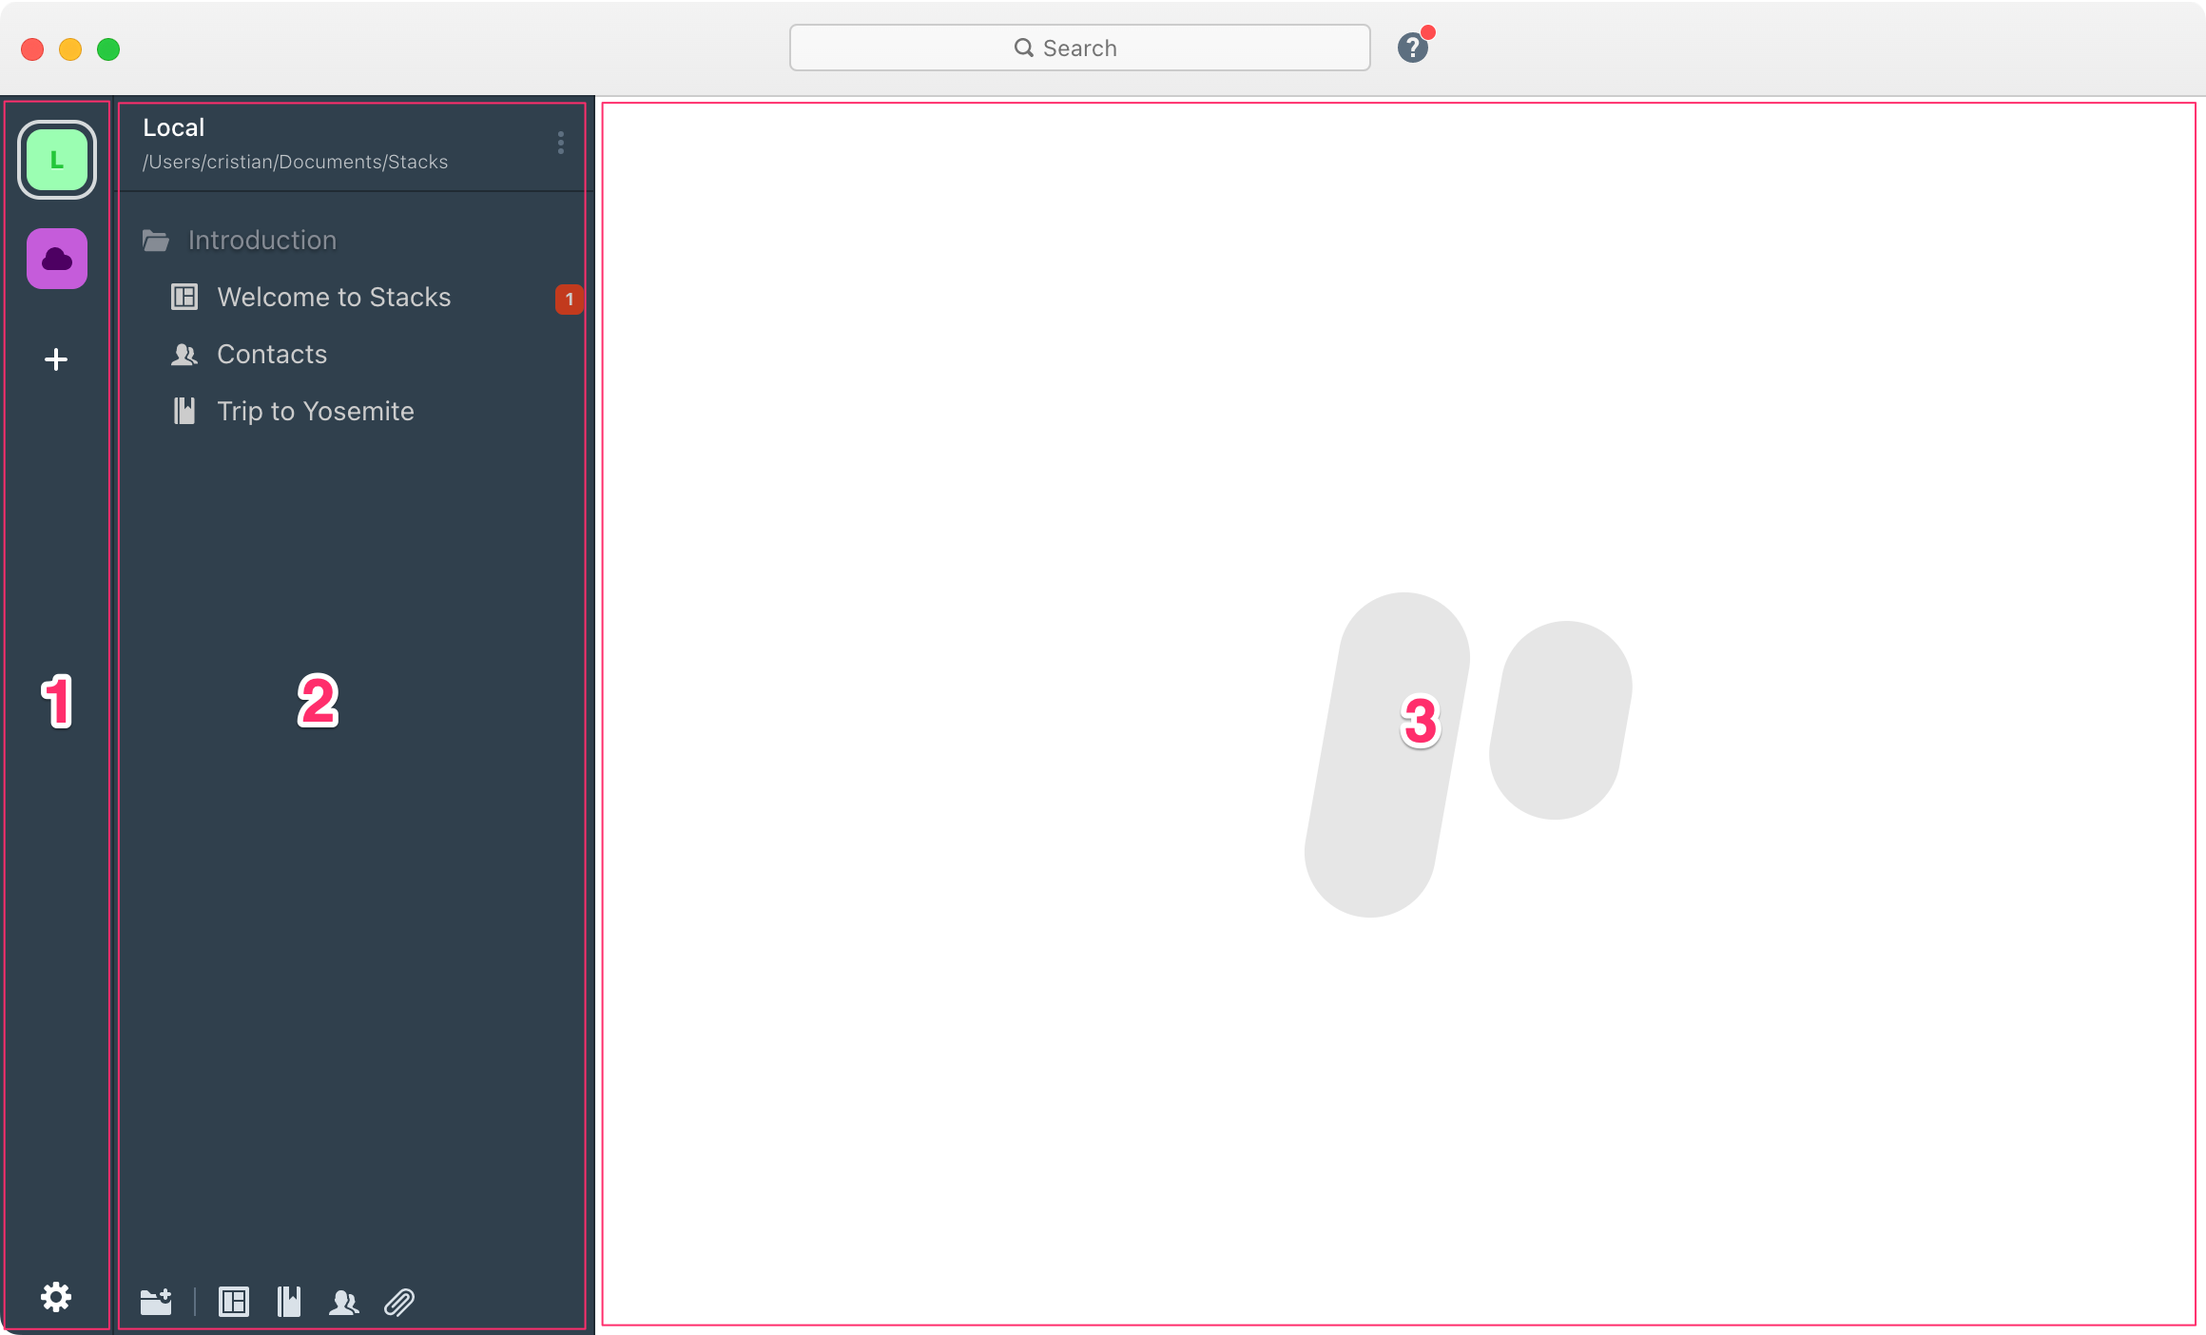
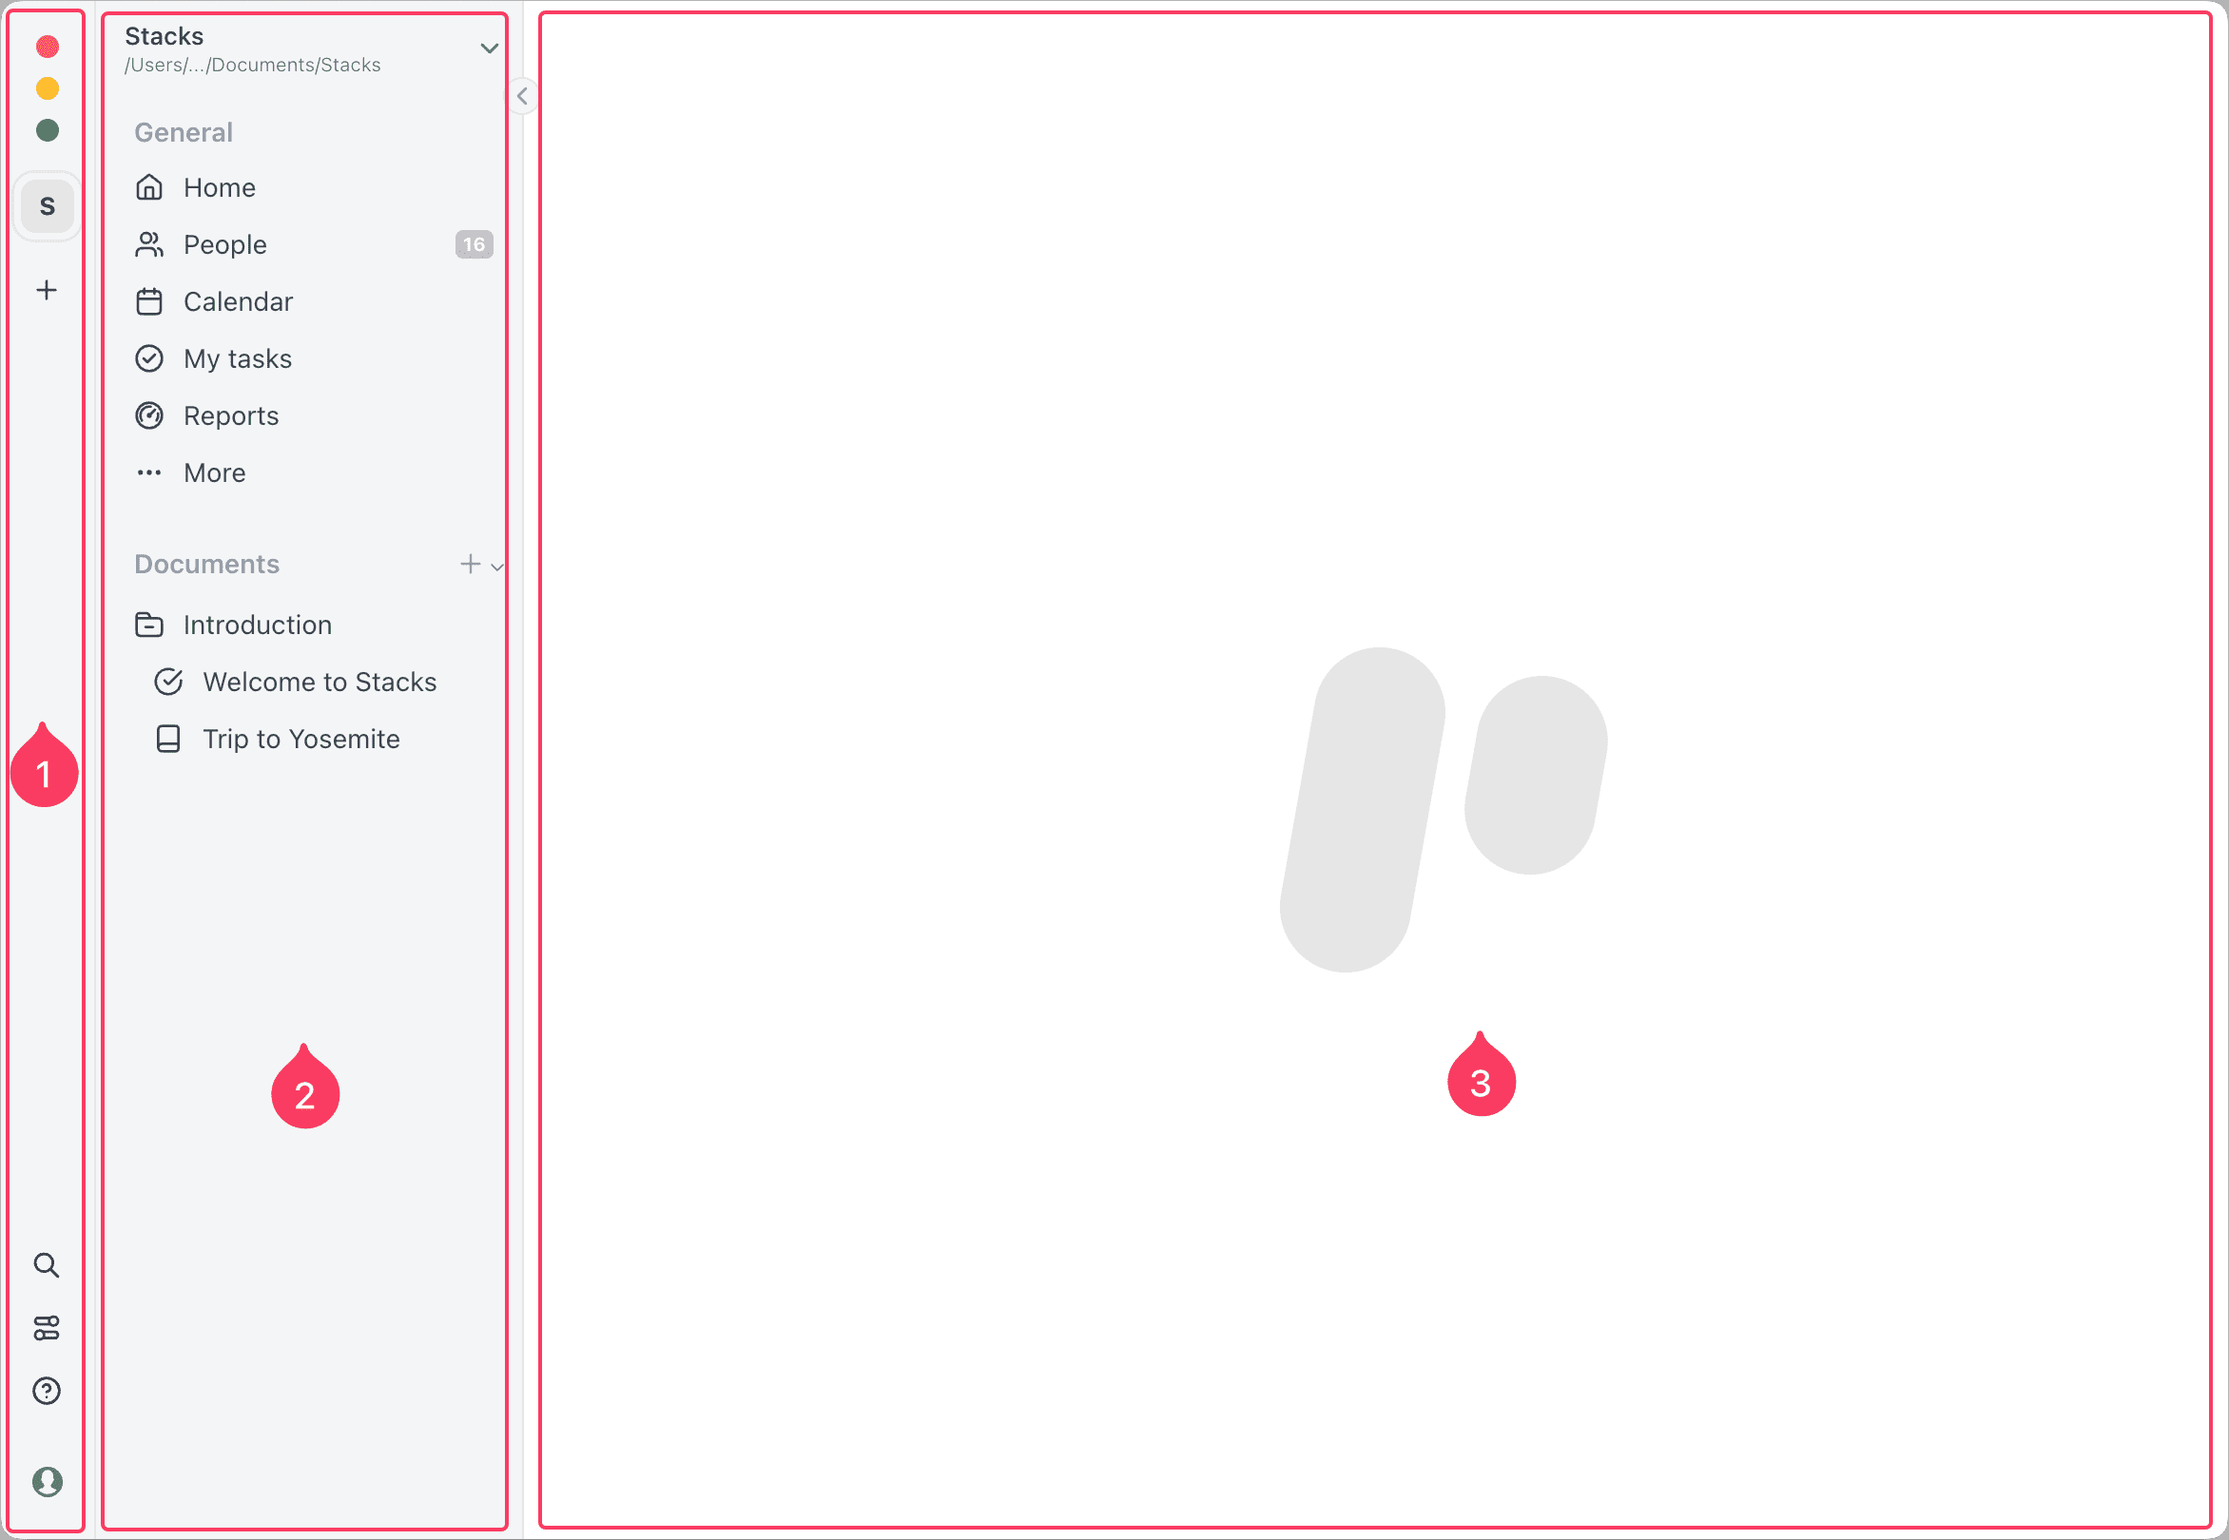
updates

Changed region(s): [[0.0, 0.0, 1.0, 1.0], [0.5586, 0.3981, 0.7448, 0.735]]

diff --git a/docs/.vuepress/config.js b/docs/.vuepress/config.js
@@ -14,17 +14,20 @@ module.exports = {
       {
         title: 'General',
         collapsable: false,
+        path: '/general/',
         children: [
           '/general/layout.md',
           '/general/sidebar.md',
           '/general/documents.md',
+          '/general/home.md',
+          '/general/calendar.md',
           '/general/changing-the-language.md',
           '/general/add-language.md',
           '/general/create-new-document.md',
           '/general/rename-document.md',
           '/general/change-theme.md',
           '/general/open-preferences.md',
-          '/general/app-hotkeys.md',
+          '/general/keyboard-shortcuts.md',
         ],
       },
       {
@@ -47,7 +50,6 @@ module.exports = {
           '/projects/board-view.md',
           '/projects/list-view.md',
           '/projects/table-view.md',
-          '/projects/calendar-view.md',
           '/projects/stack.md',
           '/projects/task.md',
           '/projects/task-details.md',
@@ -58,6 +60,7 @@ module.exports = {
       },
       {
         title: 'People',
+        path: '/people/',
         collapsable: false,
         children: [],
       },

diff --git a/docs/workspaces/add-new-workspace.md b/docs/workspaces/add-new-workspace.md
@@ -1,13 +1,20 @@
 # Adding a new workspace
 
-1. Click on the plus sign [<svg xmlns="http://www.w3.org/2000/svg" viewBox="0 0 20 20" width="12" height="12"><path fill-rule="evenodd" clip-rule="evenodd" d="M16,9h-5V4c0-0.55-0.45-1-1-1S9,3.45,9,4v5H4c-0.55,0-1,0.45-1,1 c0,0.55,0.45,1,1,1h5v5c0,0.55,0.45,1,1,1s1-0.45,1-1v-5h5c0.55,0,1-0.45,1-1C17,9.45,16.55,9,16,9z"/></svg>] on the left and choose between adding a `Local workspace` or `Online workspace`.  Read more [here](./what-is-a-workspace.md) about the difference between the 2 types of workspaces.
+To add a new workspace follow these steps:
 
-<img :src="$withBase('/assets/img/workspaces/adding_a_workspace.png')">
+1. Click on the plus sign button on the left sidebar 
+2. Choose between adding a `Local workspace` or `Remote workspace`.  
 
-2. After you have clicked on `Add a local workspace` you need to insert the workspace's name [`1`] and location [`2`]. You can also select the location of a previously created workspace which will be automatically loaded; alternatively, you can start from scratch and create a new workspace in a new empty folder.
+Read more [here](./what-is-a-workspace.md) about the difference between the 2 types of workspaces.
 
-<img :src="$withBase('/assets/img/workspaces/adding_a_workspace_local_folder.png')">
+<img :src="$withBase('/assets/img/workspaces/adding-a-workspace.png')">
 
-3. When a new empty folder is selected, the workspace will be populate with a demo content called **Introduction**. These are just examples to show what you can do with Stacks, you can either edit them or deleted and create your own documents.
+1. Insert the workspace's name
+2. Select the folder/path of the worksace. You can also select the location of a previously created workspace which will be automatically loaded; alternatively, you can start from scratch and create a new workspace in a new empty folder.
+3. Click the `Add workspace` button to add or load a previously created workspace
 
-<img :src="$withBase('/assets/img/workspaces/adding_a_workspace_local_folder_new_folder.png')">
+<img :src="$withBase('/assets/img/workspaces/add-workspace.png')">
+
+::: tip
+When a new empty folder is selected, the workspace will be populate with a demo content called **Introduction**. These are just examples to show what you can do with Stacks, you can either edit them or deleted and create your own documents.
+:::

diff --git a/docs/general/sidebar.md b/docs/general/sidebar.md
@@ -1,14 +1,28 @@
 # Sidebar
 
-The **Sidebar** is the place where you organize all your [Documents](./documents.md) into folders. Everything can be easily moved around by dragging-and-dropping to best fit your needs.
+The **Sidebar** is the place where you organize all your [Documents](./documents.md) into folders and jump to several key section of the app like the [Home](./home.md), [People](../people/), Reports and more. Everything can be easily moved around by dragging-and-dropping to best fit your needs.
 
 <img :src="$withBase('/assets/img/general/sidebar.png')" />
 
-## Enabling counters
 
-Some of the documents in the **Sidebar** may show some useful counters like the overdue tasks in a project. To enable the counters follow these steps:
+## Configuring pinned items
 
-1. Open the [**Preferences**](../general/open-preferences.md)
-2. Click on the **Interface** tab under the **Look & Feel** section
-3. Locate the **Sidebar** section
-4. Switch on the **Show document counter** option
+The top section of the sidebar has various useful app section which can be easily pinned. To manage pinned items follow these steps:
+
+1. Click on the `More...` menu in the sidebar
+2. Click on the `Manage pinned items...` menu item
+
+<img :src="$withBase('/assets/img/general/managing-pinned-items.png')" />
+
+After the preferences window is open:
+
+1. Click on the `pin` button to remove item from the pinned items
+2. Click on the `pin` button to add item to the pinned items
+
+<img :src="$withBase('/assets/img/general/toggle-pinned-items.png')" />
+
+## Closing the sidebar
+
+The sidebar can be closed either by using the keyboard shortcut <kbd>Ctrl+B</kbd> on Windows or Linux and <kbd>Cmd+B</kbd> on macOS. Or by clicking the `toggle` sidebar button.
+
+<img :src="$withBase('/assets/img/general/toggle-sidebar.png')" />

diff --git a/docs/projects/board-view.md b/docs/projects/board-view.md
@@ -2,7 +2,28 @@
 
 The board view uses a kanban board. A kanban board is an agile project management tool designed to help visualize work, limit work-in-progress, and maximize efficiency (or flow). It can help both agile and DevOps teams establish order in their daily work. Kanban boards use cards ([Tasks](./task.md)), columns ([Stacks](./stack.md)).
 
-<video autoplay="autoplay" class="img-fluid mx-auto radius-big shadow show-on-dark" loop="loop" muted="muted" playsinline="playsinline" width="100%">
-    <source src="https://stacks.rocks/site/assets/files/5554/board-view-dark.webm">
-    <source src="https://stacks.rocks/site/assets/files/5554/board-view-dark.mp4">
-</video>
+<img :src="$withBase('/assets/img/projects/board-view.png')">
+
+## How to use the board view
+
+The board view main purpose is to give you a better look over a waterfall style progress of your tasks. In the view usually, but not necessarily, the tasks move from left to right in the columns.
+
+### Waterflow usage example
+
+Tasks are moved horizontally from left to right based on they status. When a task is created it goes into the `To do` column. When you start working on a specific task then it gets moved to the `Doing` column and eventually to the `Done` column when the task was completed.
+
+| To do | Doing | Done
+| --- | :---: | :---: | 
+| Task 1 | Task 7 | Task 10
+| Task 2 | Task 6 | Task 9
+| Task 3 | Task 5 | Task 8
+
+### Feature usage example
+
+In this case the task are not moving to different columns when you start working on them but rather they get tagged either by using a [Status](./statuses.md) or [Tags](./tags.md) to mark `working on` state.
+
+| Feature 1 | Feature 2 | Feature 3
+| --- | :---: | :---: | 
+| Task 1 | Task 7 | Task 10
+| Task 2 | Task 6 | Task 9
+| Task 3 | Task 5 | Task 8

diff --git a/docs/workspaces/renaming-a-workspace.md b/docs/workspaces/renaming-a-workspace.md
@@ -1,9 +1,19 @@
 # Renaming a workspace
 
-1. Click on the workflow menu icon [<svg width="12px" height="12px" viewBox="0 0 5 19" xmlns="http://www.w3.org/2000/svg"><circle cx="2.5" cy="2.5" r="2.5"></circle><circle cx="2.5" cy="16.5" r="2.5"></circle><circle cx="2.5" cy="9.5" r="2.5"></circle></svg>] and select **Edit workspace...**
+To edit a workspace follow these steps:
 
-<img :src="$withBase('/assets/img/workspaces/editing_a_workspace.png')">
+1. Click and select the workspace you want to edit from the sidebar
+2. Click on the workflow menu icon 
+3. Clicl the `Edit workspace...` menu item
 
-2. For a local folder you can just change the name of the workspace, in case you need to change the path/location, you need to remove it and add it as new workplace. Checkout [how to move a workspace](./moving-a-workspace.md) article.
+<img :src="$withBase('/assets/img/workspaces/renaming-workspace.png')">
 
-<img :src="$withBase('/assets/img/workspaces/editing_a_workspace_local_folder.png')">
+1. Change or update the workspace title
+2. Optionally change the workspace icon
+3. Save the current workspace name
+
+<img :src="$withBase('/assets/img/workspaces/edit-workspace-title.png')">
+
+:::tip
+In case you need to change the path/location of your local workspacec check out the [how to move a workspace](./moving-a-workspace.md) guide.
+:::

diff --git a/docs/projects/list-view.md b/docs/projects/list-view.md
@@ -1,3 +1,23 @@
 # List view
 
-The list view is just a vertical representation of the [Board View](./board-view.md).
+The list view is all about task grouping by [stack](./stack.md), due date, priority or ungroupped.
+
+<img :src="$withBase('/assets/img/projects/list-view.png')">
+
+## Group by stack
+
+List view groupped by stack is just a vertical representation of the [Board View](./board-view.md) and it allows moving task from one column to another on the vertical axis.
+
+<img :src="$withBase('/assets/img/projects/list-view-stack.png')">
+
+## Group by due date
+
+List view groupped by due date is useful to have a quick glance over which task is due today, upcoming or already overdue. When changing the task date it will automatically jump into the correct grouping based on the newly selected date.
+
+<img :src="$withBase('/assets/img/projects/list-view-duedate.png')">
+
+## Group by priority
+
+List view groupped by priority is useful to have a quick glance over which has more priority over another. The task rows can be easily dragged to any priority grouping to change their priority or by simply clicking the priority button and selecting a new one.
+
+<img :src="$withBase('/assets/img/projects/list-view-priority.png')">

diff --git a/docs/workspaces/changing-workspace-icon.md b/docs/workspaces/changing-workspace-icon.md
@@ -1,9 +1,15 @@
 # Changing the workspace icon
 
-1. Click on the wokspace options button [`1`] in the top right corner of the **Sidebar** and click on **Edit workspace...* [`2`].
+To edit the workspace's icon follow these steps:
 
-<img :src="$withBase('/assets/img/workspaces/sidebar.jpg')">
+1. Click and select the workspace you want to edit from the sidebar
+2. Click on the workflow menu icon 
+3. Clicl the `Edit workspace...` menu item
 
-2. Click on the button on the left hand side of the Workspace's name [`1`] and select either a new icon from the popover [`2`] or choose the first empty icon for resetting to default.
+<img :src="$withBase('/assets/img/workspaces/renaming-workspace.png')">
 
-<img :src="$withBase('/assets/img/workspaces/workspace.jpg')">
+1. Click on the button on the left hand side of the Workspace's name
+2. Select any icon from the popup
+3. To remove the icon select the first empty icon for resetting to default.
+
+<img :src="$withBase('/assets/img/workspaces/removing-workspace-icon.png')">

diff --git a/docs/general/layout.md b/docs/general/layout.md
@@ -1,5 +1,9 @@
 # Layout
 
-**Stacks** has a three-column interface. The first column displays the list of configured [Workspaces](../workspaces/what-is-a-workspace.md)[`1`]. The second column displays the [Sidebar](./sidebar.md)[`2`] containing all the [Documents](./documents.md) organized in folders. And the third column is the main app area, where you can view your [projects](../projects/README.md)[`3`], contacts, notepads and more.
+**Stacks** has a three-column interface. 
+
+1. The first column displays the list of configured [Workspaces](../workspaces/what-is-a-workspace.md). 
+2. The second column displays the [Sidebar](./sidebar.md) containing all the [Documents](./documents.md) organized in folders. 
+3. And the third column is the main app area, where you can view your [projects](../projects/README.md), contacts, notepads and more.
 
 <img :src="$withBase('/assets/img/general/layout.png')">

diff --git a/docs/general/calendar.md b/docs/general/calendar.md
@@ -1,0 +1,25 @@
+# Calendar
+
+The Calendar shows events, [tasks](../projects/task.md), time logs and birthdays in the for the selected date and time span interval (day, week, month).
+
+<img :src="$withBase('/assets/img/general/calendar.png')">
+
+## Filtering
+
+The calendar has a filter which is accessible from the top toolbar. The filter lets you toggle the visibility of:
+
+- events
+- tasks
+- birthdays
+- time logs
+
+## Adding an event
+
+There are 2 main ways of adding a new event:
+
+1. using the mouse and draging/selecting a specific time span (squares)
+2. from the top toolbar by clicking the `Add event` button
+
+## Editing an event
+
+The events can be easily changed by either dragging/dropping or resizing them to a different time span, or by double clicking on them and use the modal window to change both the title and dates.

diff --git a/docs/workspaces/removing-a-workspace.md b/docs/workspaces/removing-a-workspace.md
@@ -1,9 +1,13 @@
 # Removing a workspace
 
-1. Click on the workspace you want to remove [`1`]. Click on the Workflow menu icon [`2`] and select **Remove workspace...** [`3`]
+1. Select the workspace you want to remove from the sidebar
+2. Click on the Workflow menu icon
+3. Click on the `Remove workspace...` menu item
+4. Confirm deletion
+
+
+<img :src="$withBase('/assets/img/workspaces/removing-workspace.png')">
 
 ::: tip
-When removing a workspace the data is not removed. In case you want to eliminate also the files of that workspace, you need to delete the files and the folders from your filesystem.
+When removing a workspace the data is not removed. In case you want to also remove the files you will have to manually delete them from your filesystem.
 :::
-
-<img :src="$withBase('/assets/img/workspaces/removing_a_workspace.png')">

diff --git a/docs/general/home.md b/docs/general/home.md
@@ -1,0 +1,20 @@
+# Home
+
+The home is the best place to start your day when running Stacks. It allow you to have a bird's-eye view of your current work, favorite projects and people, to do list, personal notes and more.
+
+Home will show the following info:
+
+- Favorite projects
+- My tasks either for `today` or `this week` based on `start`, `do` or `due` dates
+- Private to do list
+- Pinned bookmarks
+- Favorite people and companies
+- Private notes
+
+<img :src="$withBase('/assets/img/general/home.png')">
+
+## Customizing
+
+The home can be easily customized to your likings by clicking the `Customize` button from the top right corner. From here you can choose a prefered tint color and a pattern.
+
+<img :src="$withBase('/assets/img/general/home-customization.png')">

diff --git a/docs/projects/table-view.md b/docs/projects/table-view.md
@@ -1,3 +1,5 @@
 # Table view
 
-<img :src="$withBase('/assets/img/projects/table-view-light.png')">
+The table view is the best way to have all your tasks in a project visually represented on a vertical grid. This view lets you easily and quickly **filter**, **sort** and **compare** tasks side-by-side by toggling the visibility of different columns.
+
+<img :src="$withBase('/assets/img/projects/table-view.png')">
